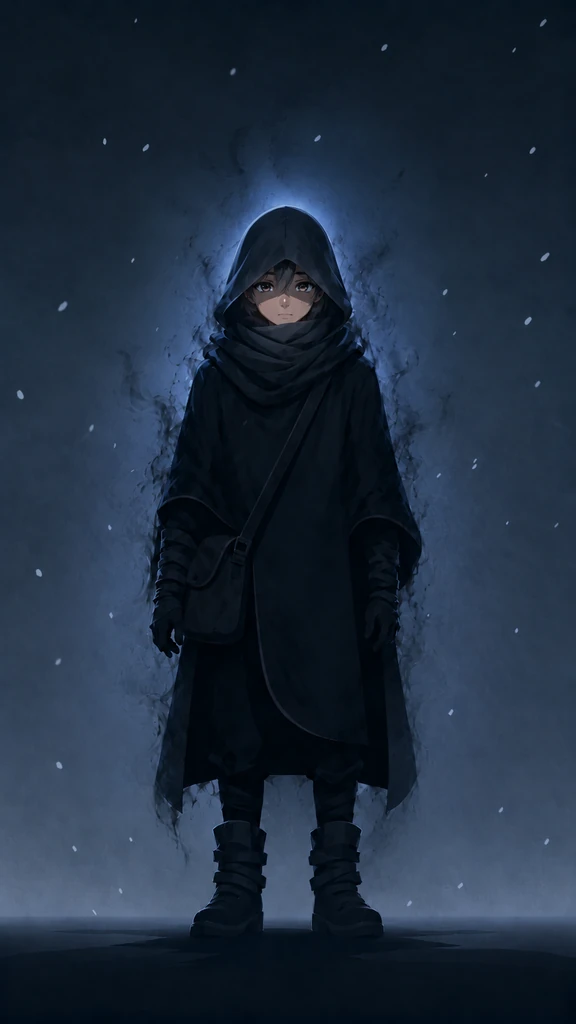
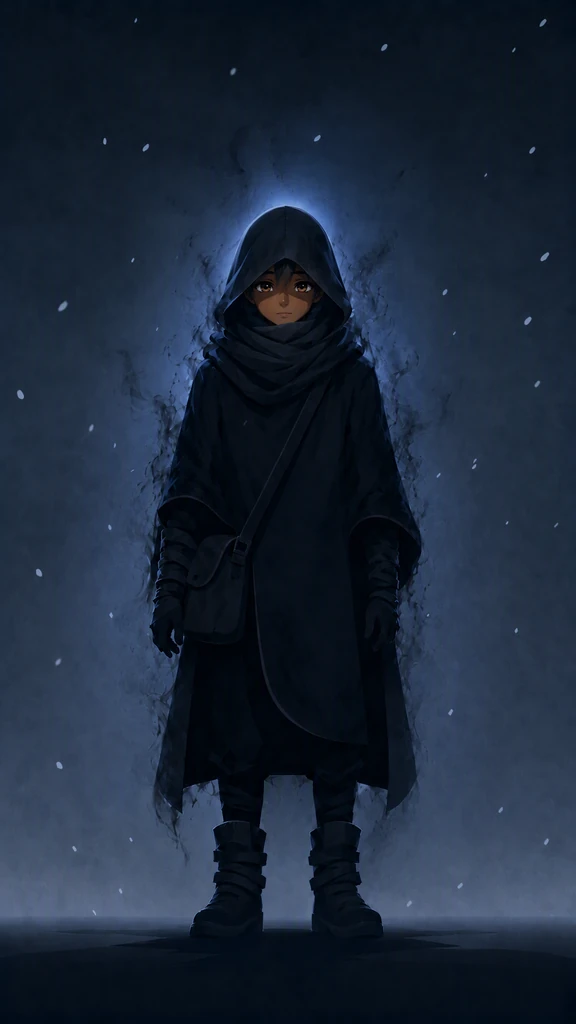
GAINS demo: ship the final Zone 1 traveler art with a cache-bust
Draft 42. The skin-tone-matched final version of the Zone 1/stage-1
traveler was already sitting in the working tree at both
traveler-stage1-hallow.webp paths (public/long-light/art/, the copy the
demo actually serves, and the long-light-site/art/ source copy) --
committed here for the first time, so it goes live.

Since the filename didn't change, added a ?v=2 cache-bust to the image
URL in GainsDemoPage.jsx. This one actually needs it: unlike the mp3
audio files (which vercel.json serves as max-age=0, must-revalidate,
so an ETag change alone gets browsers the new bytes), .webp is served
public, max-age=31536000, immutable -- browsers are told never to
revalidate for a year, so overwriting the file at the same URL without
a version bump would have left this served stale for a long time.

Verified: the versioned URL serves 200 with the new file's exact byte
size (32050, matching the updated webp); the two committed copies are
byte-identical to each other; no console errors.

Changed region(s): [[0.4375, 0.25, 0.5625, 0.3438]]

diff --git a/src/pages/GainsDemoPage.jsx b/src/pages/GainsDemoPage.jsx
@@ -224,7 +224,10 @@ const REVIEW_GEAR_THEME =
 // placeholder copy from Draft 23. The old avatar files stay in the repo.
 const TRAVELER_STAGES = [
   {
-    src: `${ART}/traveler-stage1-hallow.webp`,
+    // ?v=2: skin-tone-matched final art (Draft 42), same filename as the
+    // pre-final version — cache-bust so browsers/CDN don't keep serving the
+    // old bytes now that the file's been updated in place.
+    src: `${ART}/traveler-stage1-hallow.webp?v=2`,
     name: 'Zone 1 — The Dark Abyss',
     blurb: 'Arrives wrapped in shadow.',
   },
